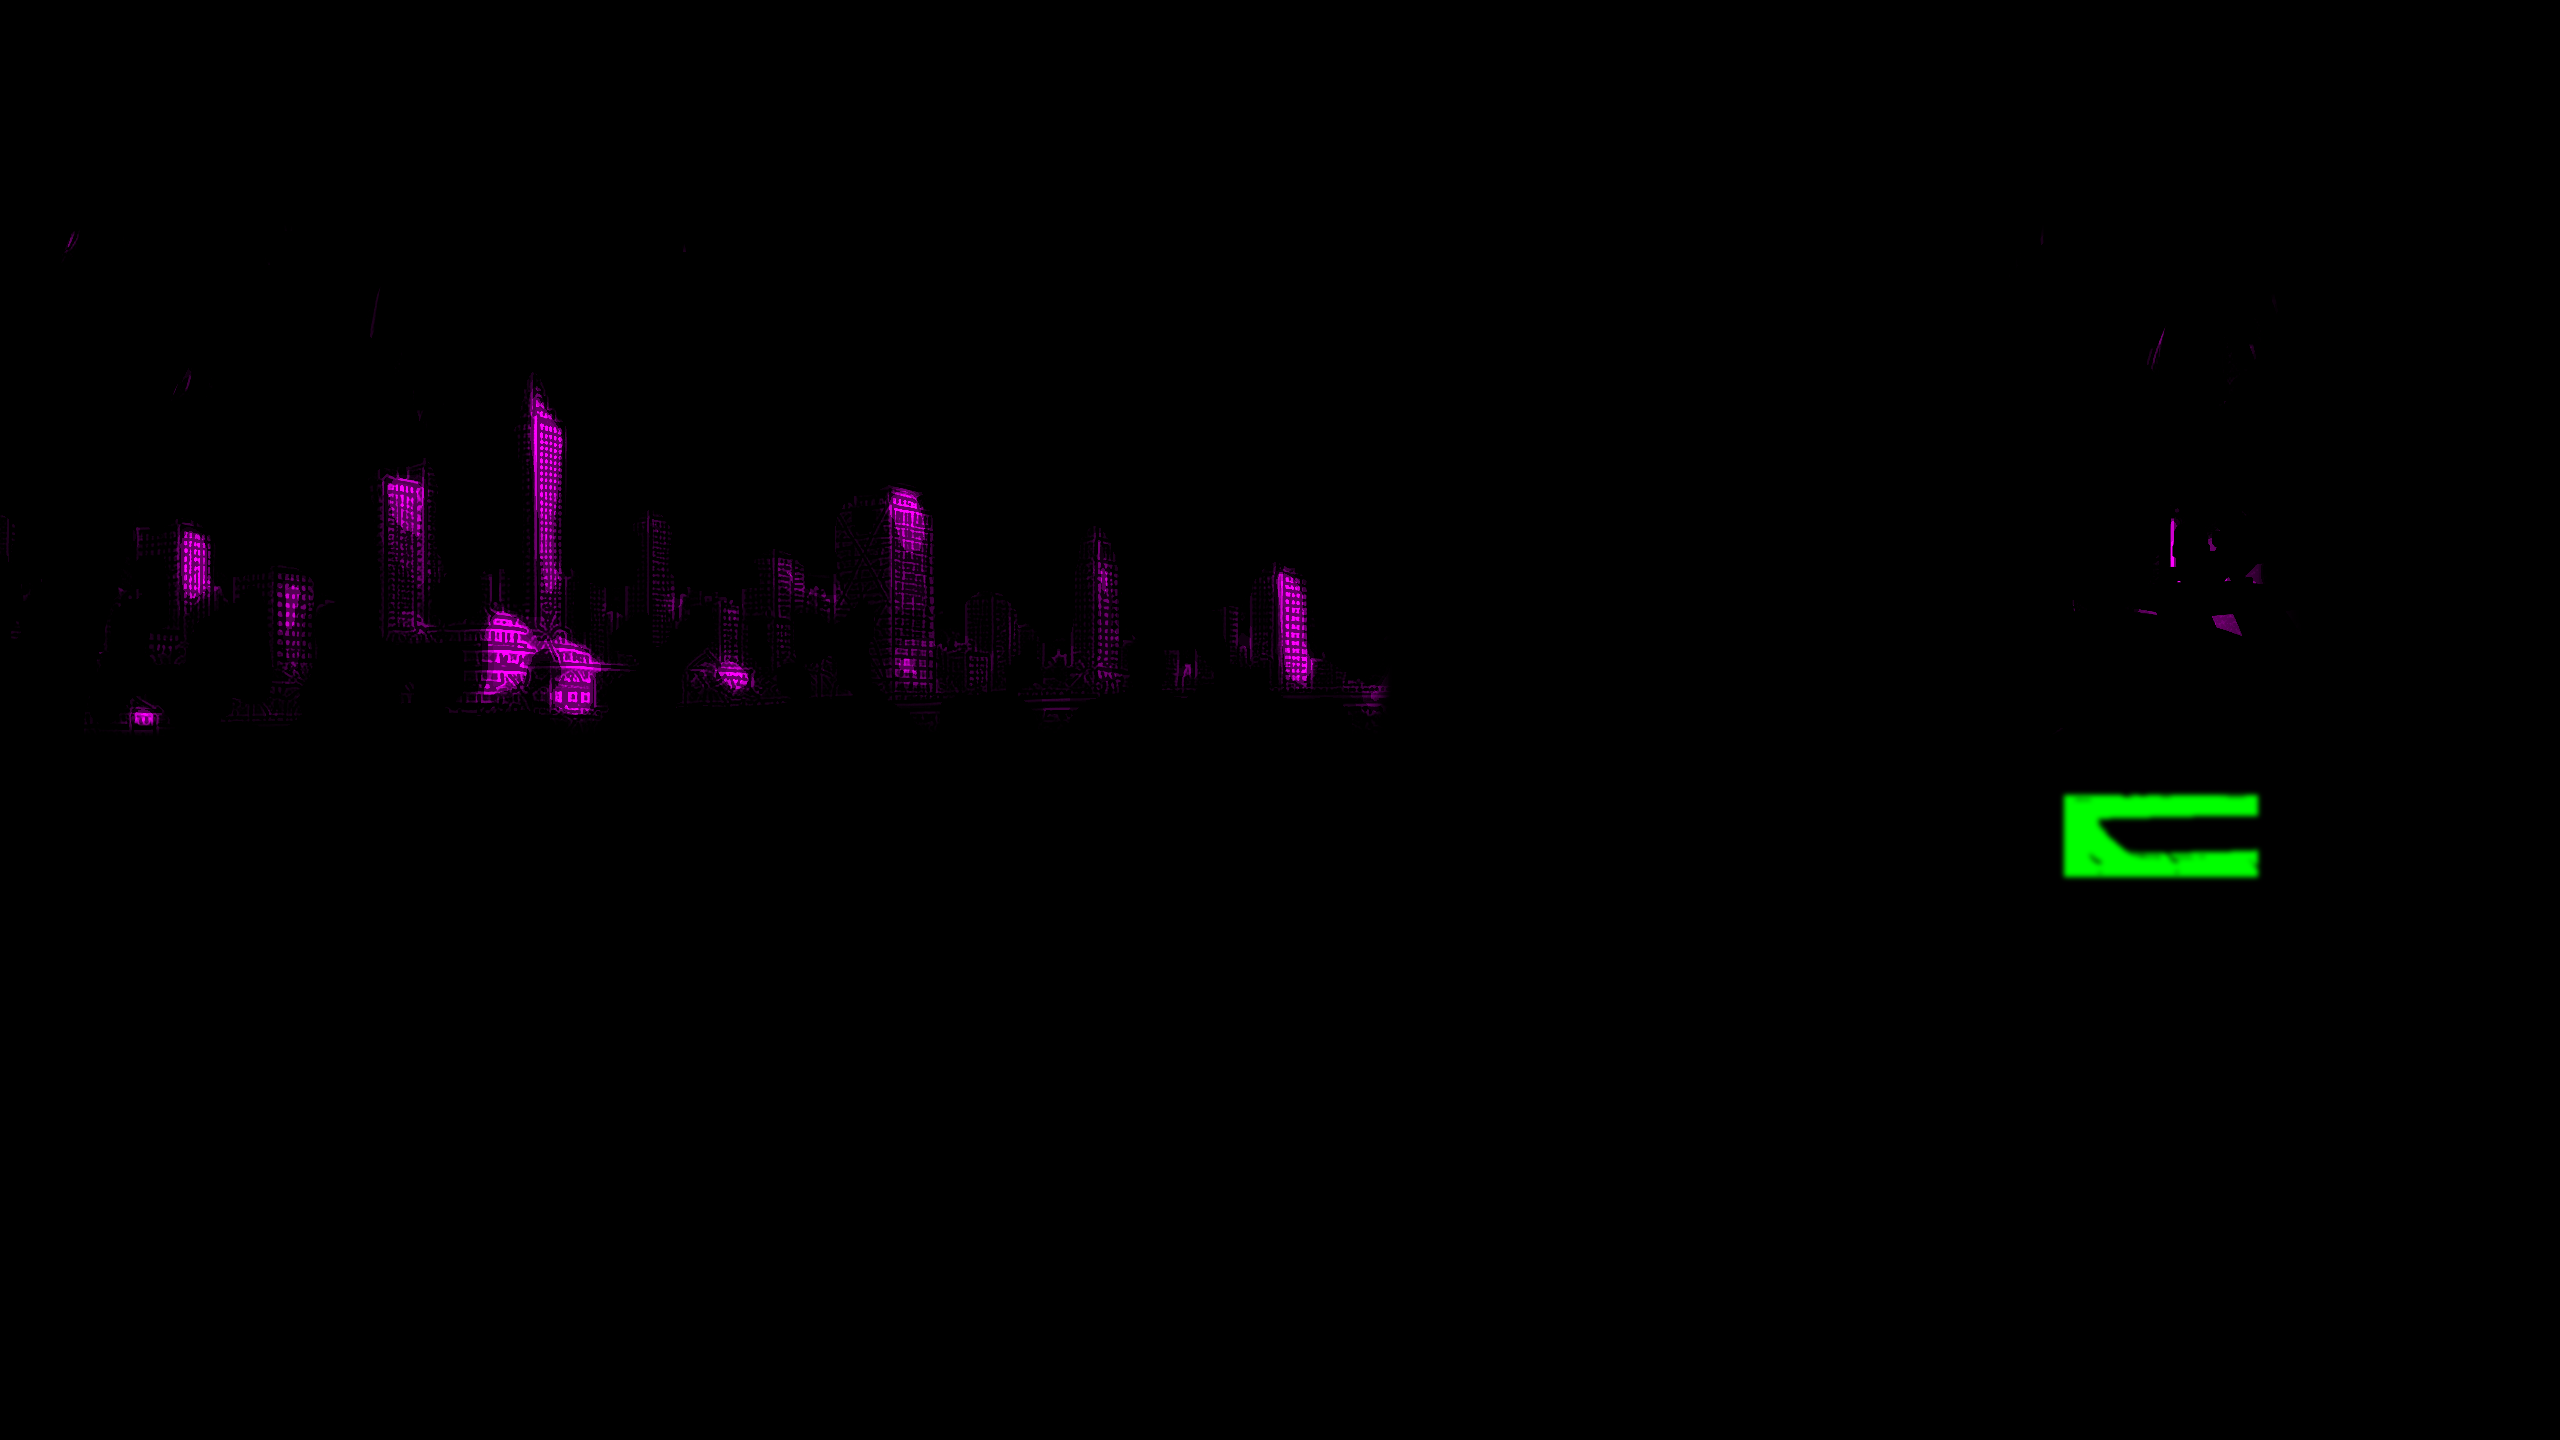
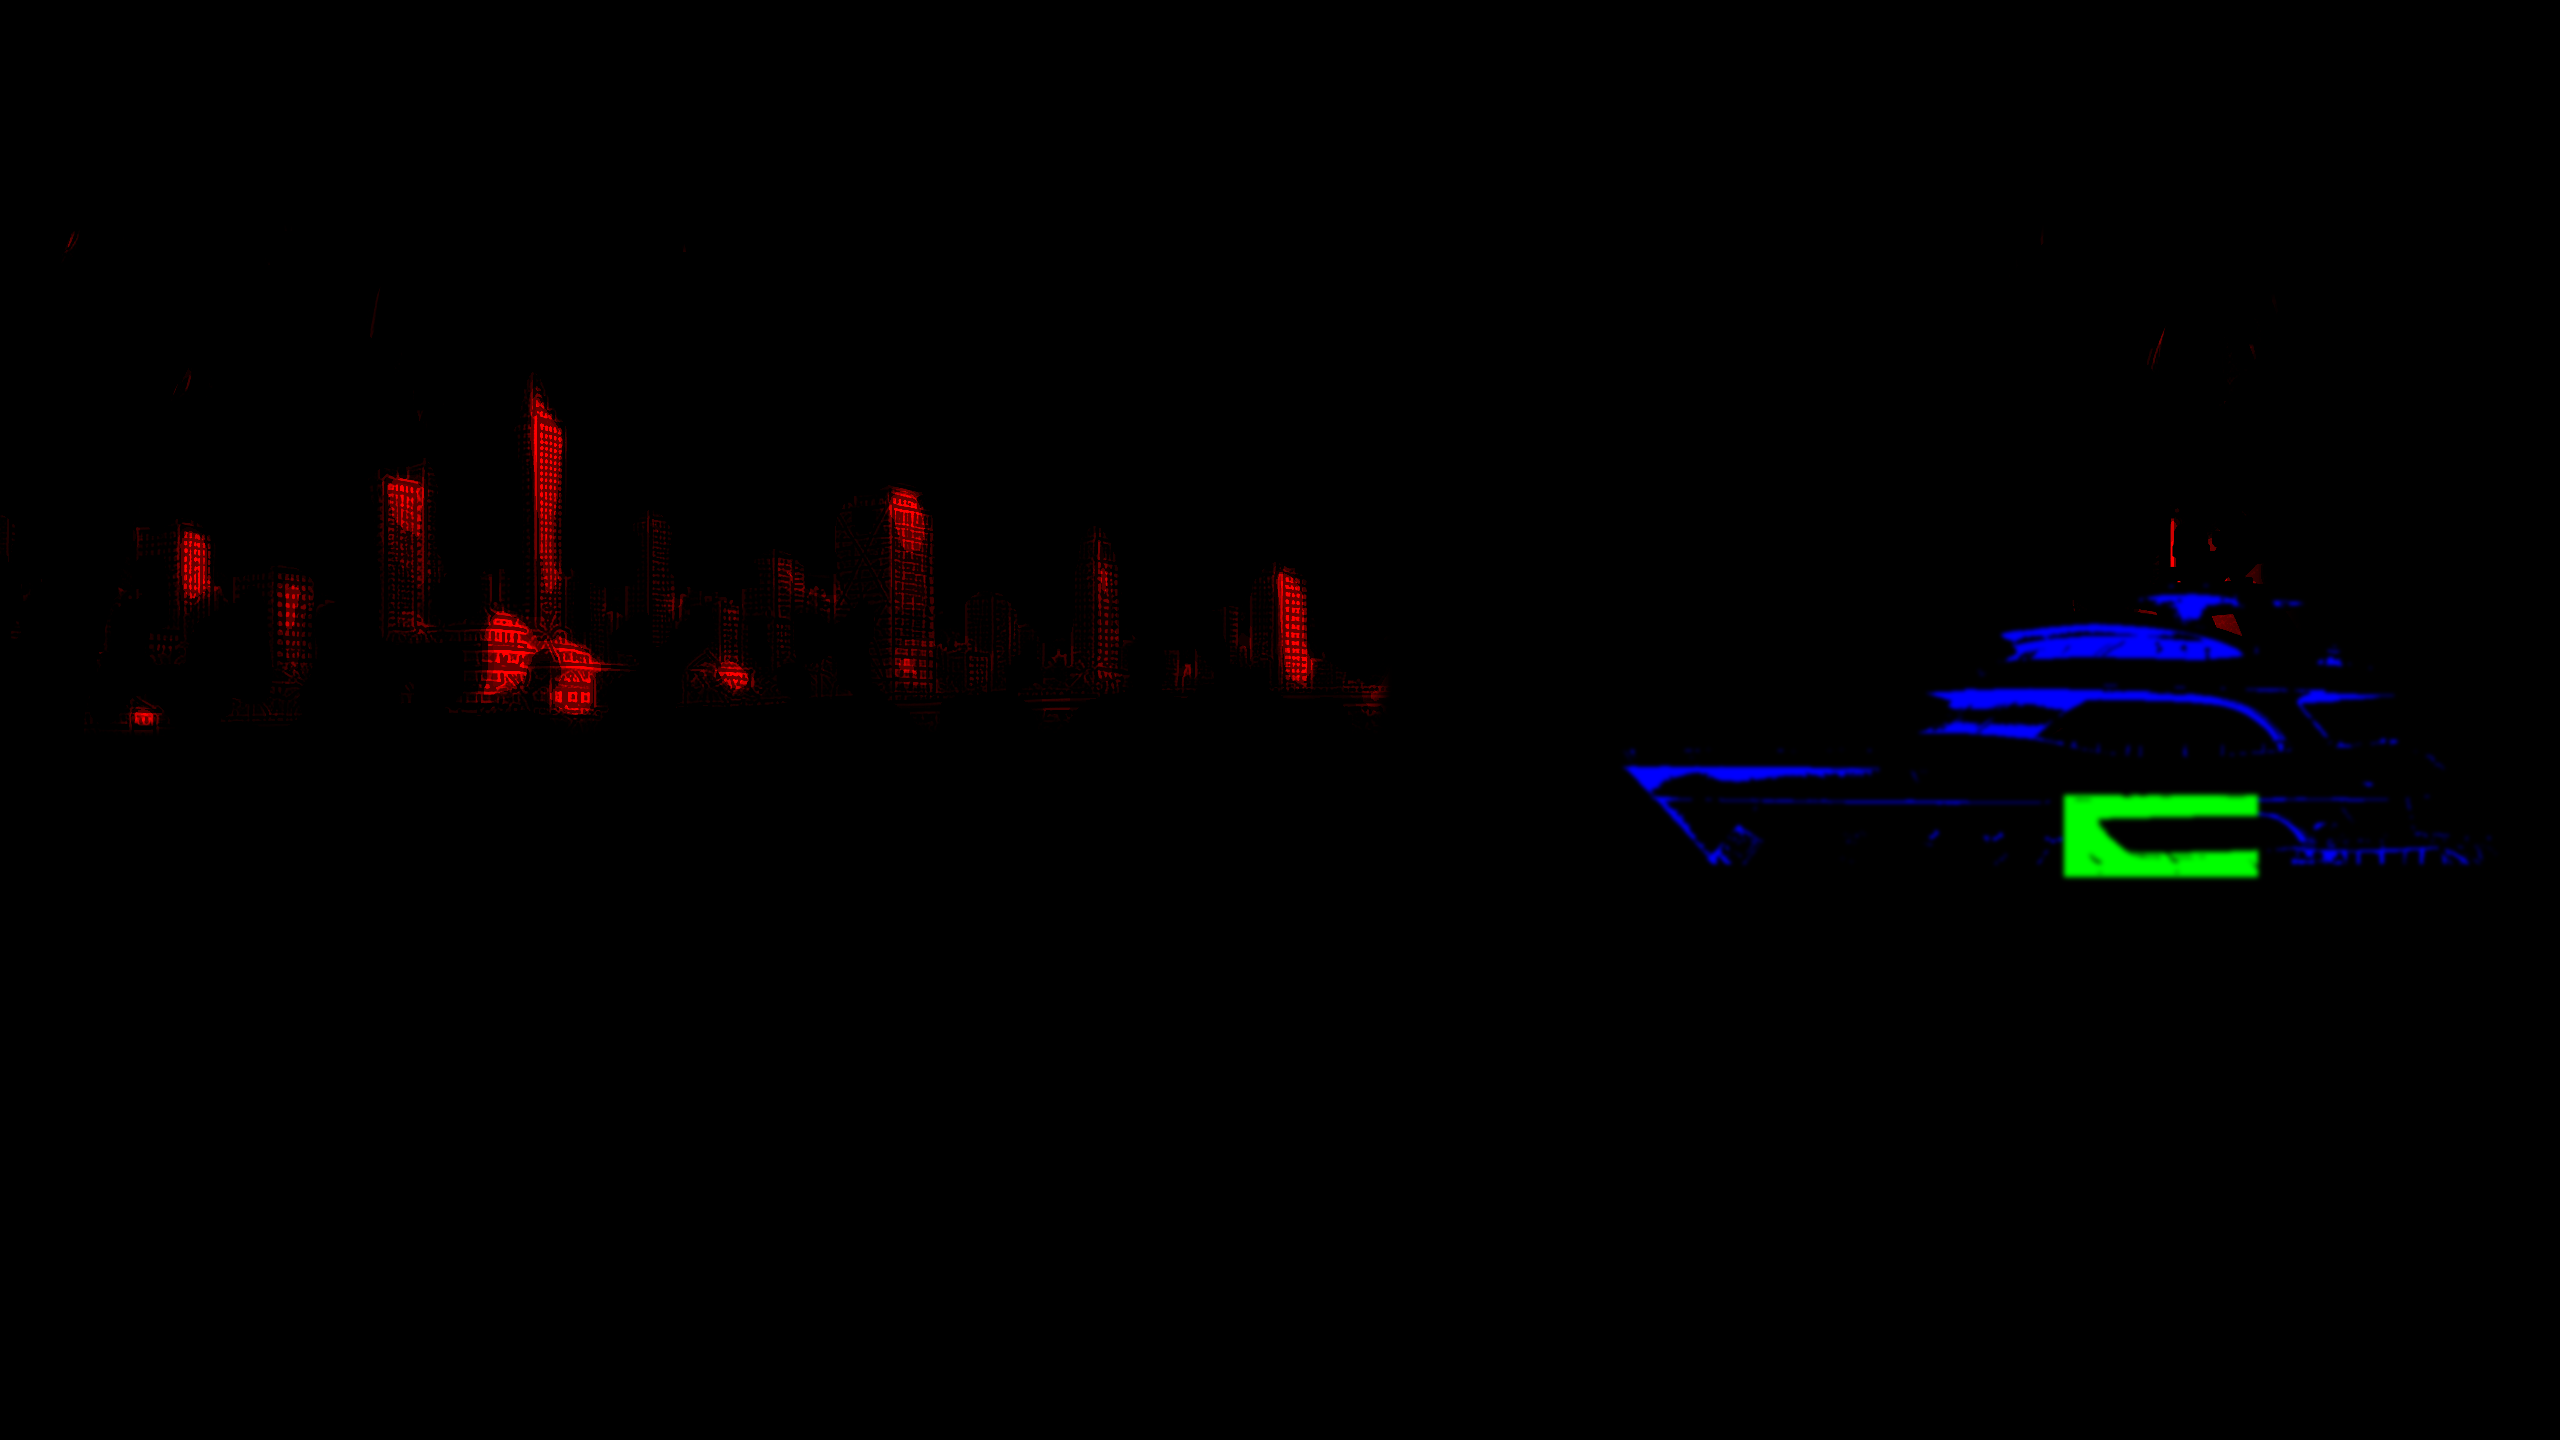
feat(scenery): light the yacht cabins from inside via a baked window mask
The moored yacht read as parked & dark. Give it warm interior glow that
fills the REAL window shapes (saloon swoop, sky-lounge, flybridge
windscreen, hull portholes) instead of the old in-shader high-pass, which
only edge-traced the panes and speckled the rails.

- bake_city_windows.py: detect the cabin glass from yacht.png by a
  band-pass that FILLS dark recessed panes but REJECTS the dark hull (a
  pane is dark AND sits inside brighter superstructure, so a large-radius
  blur is much brighter than it; the bow hull is dark with dark
  neighbours, so it drops out). A light erosion removes the 1-2px
  boot-stripe / sheer hairlines while panes and portholes survive. Bake it
  into the BLUE channel (previously an unused mirror of R); the TV swoop
  (G) is excluded so it is not double-lit. No hand-placed boxes.
- scenery_city_lights.frag: fill the warm cabin glow from .b with a soft
  knee, a static room-to-room brightness variation and a slow unified
  breath so it reads as occupied cabins, not a flat lightbox. Confine the
  halation to the yacht silhouette (current-pixel alpha) and tighten its
  offset so the halo deposits on the hull instead of leaking up off the
  superstructure into the sky as a warm ghost.
- city_lights_layer.dart: brighten the navigation / anchor lights and deck
  courtesy lamps so the masthead, port and stern lights read clearly.

Regenerate assets/scenery/city_windows.png.

diff --git a/lib/features/scenery/layers/city_lights_layer.dart b/lib/features/scenery/layers/city_lights_layer.dart
@@ -59,8 +59,8 @@ class CityLightsLayer implements BackdropLayer {
               c,
               r * 4.2 * scale,
               [
-                color.withValues(alpha: 0.30 * amp),
-                color.withValues(alpha: 0.07 * amp),
+                color.withValues(alpha: 0.42 * amp),
+                color.withValues(alpha: 0.10 * amp),
                 color.withValues(alpha: 0),
               ],
               [0.0, 0.42, 1.0],
@@ -68,23 +68,23 @@ class CityLightsLayer implements BackdropLayer {
         )
         ..drawCircle(
           c,
-          r * 0.85 * scale,
+          r * 0.95 * scale,
           Paint()
             ..blendMode = BlendMode.plus
             ..color = Color.lerp(
               color,
               const Color(0xFFFFFFFF),
-              0.45,
-            )!.withValues(alpha: 0.72 * amp),
+              0.5,
+            )!.withValues(alpha: 0.9 * amp),
         );
     }
 
     // Navigation / anchor lights: white masthead anchor light (top of the mast),
     // red port sidelight at the bow (the port side faces the viewer), white stern
     // light at the transom.
-    lamp(at(0.871, 0.350), p.shipMast, breath, 1);
-    lamp(at(0.667, 0.578), p.shipPort, 1, 0.8);
-    lamp(at(0.965, 0.586), p.shipMast, 1, 0.8);
+    lamp(at(0.871, 0.350), p.shipMast, breath, 1.1);
+    lamp(at(0.667, 0.578), p.shipPort, 1, 1);
+    lamp(at(0.965, 0.586), p.shipMast, 1, 0.95);
 
     // Warm deck courtesy lamps along the main-deck rail.
     const deckLamps = [

diff --git a/tools/scenery_art/bake_city_windows.py b/tools/scenery_art/bake_city_windows.py
@@ -31,11 +31,15 @@ Pipeline (all in the master's own pixel space, so output is pixel-registered):
             faces with sky-bright (reflective) windows still light whole floors.
         wfield = clip(0.40*face + 0.85*panes, 0, 1), hard-stopped at the waterline.
 
-Output `assets/scenery/city_windows.png` (RGBA, value replicated into R/G/B, alpha
-opaque). The city-lights shader samples `.r` as "is this a lit-able window face,
-how strong" and paints its own per-floor lit/dark selection + tint + flicker on
-top. The field carries SOLID faces + registered pane fills, never edges, so lit
-windows read as filled panes/floors instead of a glowing wireframe.
+Output `assets/scenery/city_windows.png` (RGBA, opaque). Channel packing:
+  * R: city window field — "is this a lit-able window face, how strong". The
+    city-lights shader paints its own per-floor lit/dark selection + tint +
+    flicker on top. SOLID faces + registered pane fills, never edges, so lit
+    windows read as filled panes/floors instead of a glowing wireframe.
+  * G: yacht TV-window mask — the large lower-deck swoop pane (shader fills a
+    flickering screen glow here).
+  * B: yacht cabin-window mask — the saloon / sky-lounge / flybridge windows +
+    hull portholes (shader fills the warm interior cabin glow here).
 
 Run:  python3 tools/scenery_art/bake_city_windows.py
 (needs Pillow + numpy)
@@ -182,17 +186,64 @@ def main() -> int:
         / 255.0
     )
 
+    # --- Yacht cabin-window mask (BLUE channel) ---
+    # The saloon / sky-lounge / flybridge windows and the hull portholes are
+    # recessed DARK panes set into the bright white superstructure. Detect them by
+    # a band-pass that FILLS panes but REJECTS the dark hull: a window pane is dark
+    # AND sits inside brighter structure, so a large-radius blur of the luminance
+    # is much brighter than the pane (recessBig high across the WHOLE pane); the
+    # dark bow hull is dark with dark neighbours, so recessBig stays low in its
+    # interior and it drops out. A light erosion first removes the 1-2px boot-stripe
+    # / sheer hairlines while the broader panes and round portholes survive. The
+    # shader fills the warm cabin glow from `.b`; the TV window (`.g`) is excluded
+    # so it is not double-lit. No hand-placed boxes — the glow lands on the real
+    # window shapes by construction.
+    blur_big = np.asarray(
+        Image.fromarray(np.clip(yt_lum, 0, 255).astype(np.uint8)).filter(
+            ImageFilter.GaussianBlur(14),
+        ),
+        dtype=np.float64,
+    )
+    recess_big = blur_big - yt_lum
+    dark = ((yt_lum < 32.0) & (yt_a > 0.10)).astype(np.uint8) * 255
+    dark_core = (
+        np.asarray(
+            Image.fromarray(dark).filter(ImageFilter.MinFilter(3)),
+            dtype=np.float64,
+        )
+        > 127
+    )
+    cabin_band = (yy > 0.40) & (yy < 0.60) & (xx > 0.30) & (xx < 0.99)
+    cabin_mask = (
+        cabin_band
+        & dark_core
+        & (recess_big > 9.0)
+        & (yt_a > 0.10)
+        & (~tv_region)
+    ).astype(np.float64)
+    cabin_mask = (
+        np.asarray(
+            Image.fromarray((cabin_mask * 255.0).astype(np.uint8)).filter(
+                ImageFilter.GaussianBlur(2.0),
+            ),
+            dtype=np.float64,
+        )
+        / 255.0
+    )
+
     v = (np.clip(wfield, 0.0, 1.0) * 255.0).astype(np.uint8)
     tv = (np.clip(tv_mask, 0.0, 1.0) * 255.0).astype(np.uint8)
+    cabin = (np.clip(cabin_mask, 0.0, 1.0) * 255.0).astype(np.uint8)
     rgba = np.zeros((h, w, 4), dtype=np.uint8)
-    rgba[..., 0] = v   # R: city window field
-    rgba[..., 1] = tv  # G: yacht TV-window mask
-    rgba[..., 2] = v   # B: unused (mirror of R)
+    rgba[..., 0] = v      # R: city window field
+    rgba[..., 1] = tv     # G: yacht TV-window mask
+    rgba[..., 2] = cabin  # B: yacht cabin-window mask (warm interior glow)
     rgba[..., 3] = 255
     Image.fromarray(rgba, "RGBA").save(OUT)
     print(
         f"wrote {OUT}  city px(>0.1)={int((wfield > 0.1).sum())}  "
-        f"tv px(>0.1)={int((tv_mask > 0.1).sum())}"
+        f"tv px(>0.1)={int((tv_mask > 0.1).sum())}  "
+        f"cabin px(>0.1)={int((cabin_mask > 0.1).sum())}"
     )
     return 0
 